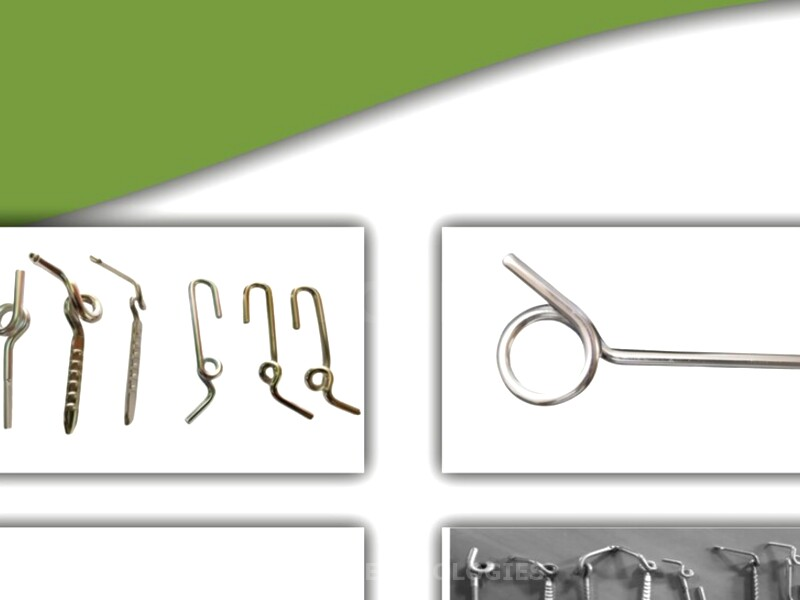
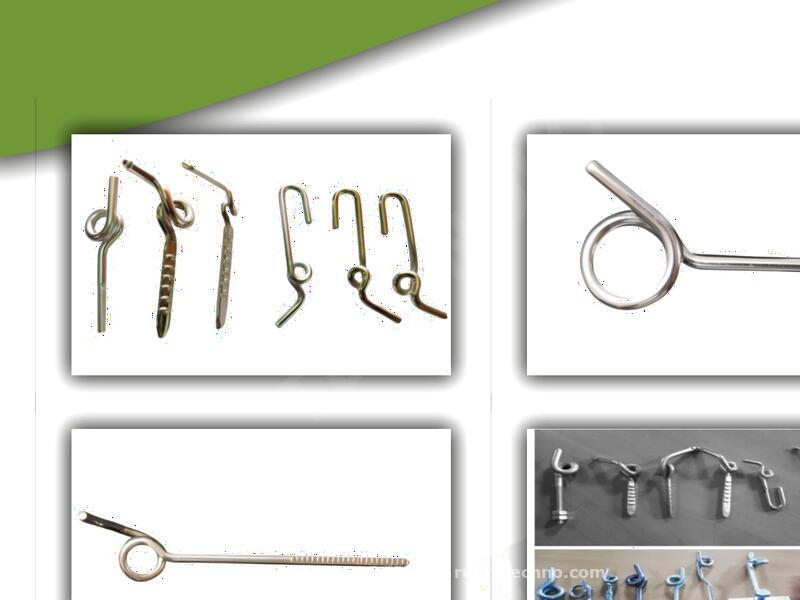
Fix product images and update lappet hooks spec
- Replace spinning rings image with correct ring types from catalogue
- Replace lappet hooks image with actual lappet hook photos from catalogue
- Replace machinery parts image with spindle assembly parts photo
- Update lappet hooks wire diameter spec from 0.8-1.5mm to 2-6mm

diff --git a/script.js b/script.js
@@ -104,7 +104,7 @@ const productData = {
       ['Surface Finish', 'Mirror-polished for smooth yarn passage'],
       ['Hardness', '55-58 HRC'],
       ['Treatment', 'Heat-treated and tempered'],
-      ['Wire Diameter', '0.8mm to 1.5mm'],
+      ['Wire Diameter', '2mm to 6mm'],
       ['Hook Angle', 'Precision-formed angles per OEM spec'],
       ['Coating', 'Anti-wear ceramic coating available'],
       ['Compatibility', 'Universal and brand-specific designs']
